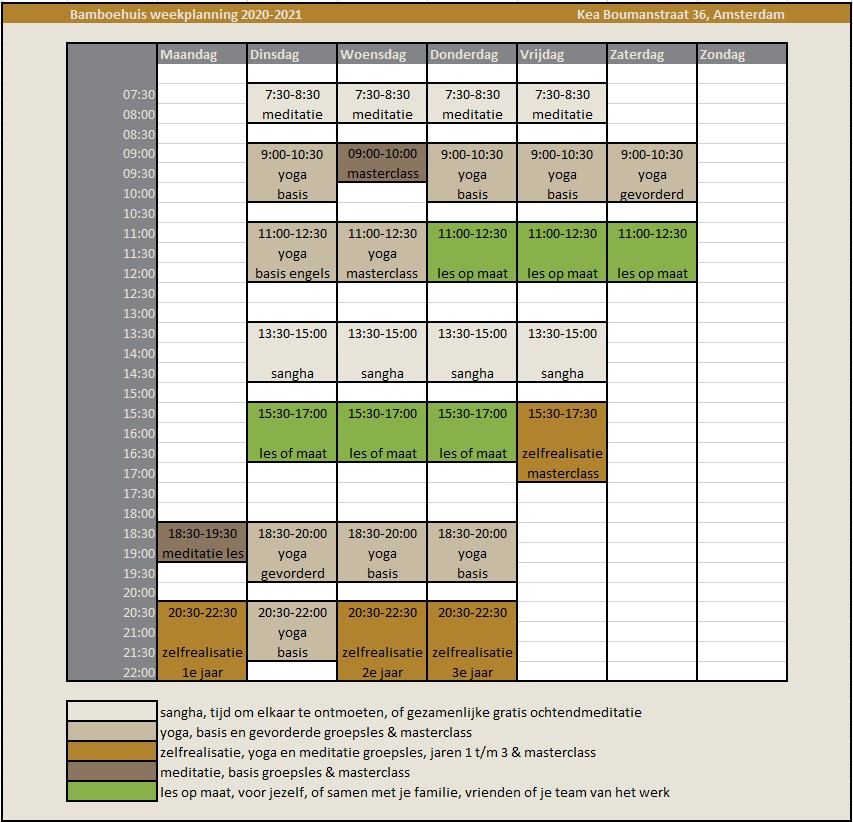
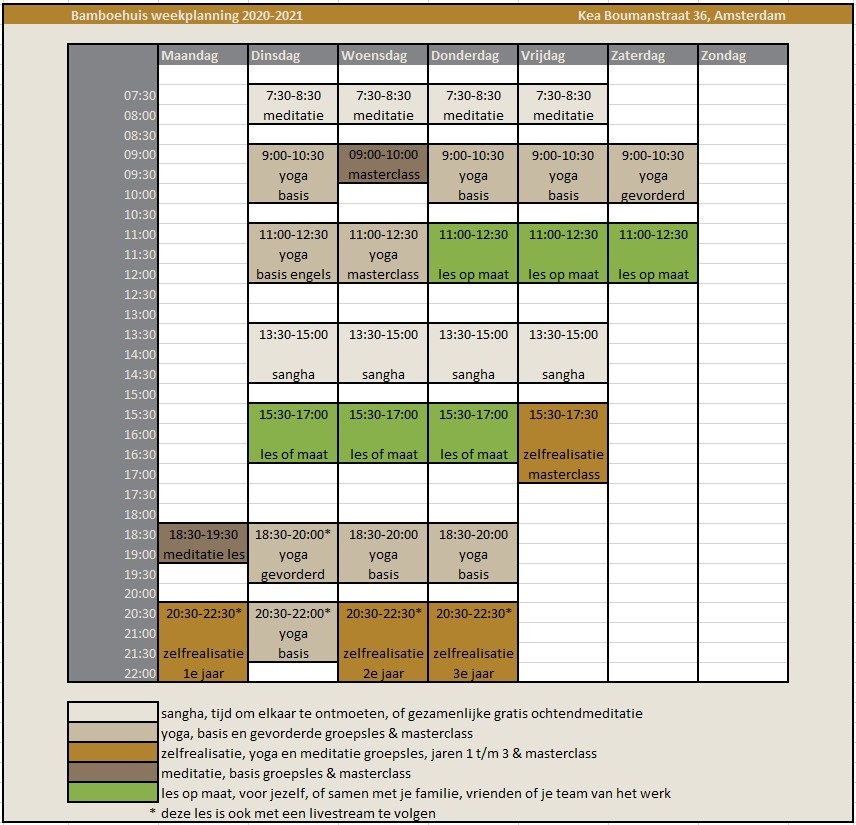
nieuwe agenda

diff --git a/index.html b/index.html
@@ -116,7 +116,7 @@
                 <div class="col-sm-8 col-sm-offset-2">
                  <h2 class="section-title text-center">OPENINGSTIJDEN</h2>
 <p class="text-center">
-<b>Update 18 november</b>: Vanaf donderdag 19 november zijn er weer groepslessen in het Bamboehuis met een maximale groepsgrootte van 6 yogi's. Kom weer in de flow van je yogabeoefening! Je kunt je les reserveren in momoyoga. Wil je graag een les online volgen mail ons dan voor een link.
+<b>Update 30 november</b>: Er zijn weer groepslessen in het Bamboehuis met een maximale groepsgrootte van 6 yogi's. Kom weer in de flow van je yogabeoefening! Je kunt nu ook thuis via een livestream lessen volgen. Ook die lessen reserveer je in momoyoga.
 <br/><br/>
 <!--
 In het Bamboehuis is mechanische ventilatie waarmee de lucht in de yogaruimte regelmatig ververst wordt.
@@ -170,58 +170,6 @@ Bekijk het overzicht, er zit vast iets voor je bij, je kunt direct en eenvoudig 
 </div>
 <br/>
 -->
-
-<div style="background:rgb(232,227,217);color:black;border-radius:7px">
-<div style="float:left;padding:5px;width:165px">
-<img class="bottom-marged" src="img/gallery/herfst-small.jpg" style="width:150px">
-<br/><b>16 - 22 november</b>
-<br/><span style="font-size:0.8em"></span>
-</div>
-<div style="float:right;padding:5px">
-	<span style="font-size:1.2em">Lesweek 10</span>
-</div>
-<div style="float:left;padding:5px">
-<table style="cell-padding-left:10px">
-<tr><td colspan="2"><a href="yogalessen.html">Yoga</a></td></tr>
-<tr style="font-size:0.8em"><td>Basis</td><td style="padding-left:10px">overgave</td></tr>
-<tr style="font-size:0.8em"><td>Gevorderd</td><td style="padding-left:10px">ken jezelf</td></tr>
-<tr><td colspan="2"><a href="meditatielessen.html">Meditatie</a></td></tr>
-<tr style="font-size:0.8em"><td>Meditatie</td><td style="padding-left:10px">bewustzijnstoestanden</td></tr>
-<tr><td colspan="2"><a href="zelfrealisatielessen.html">Zelfrealisatie</a></td></tr>
-<tr style="font-size:0.8em"><td>1e jaar</td><td style="padding-left:10px">raja yoga</td></tr>
-<tr style="font-size:0.8em"><td>2e jaar</td><td style="padding-left:10px">ken jezelf als de ene</td></tr>
-<tr style="font-size:0.8em"><td>3e jaar</td><td style="padding-left:10px">aandacht</td></tr>
-</table>
-</div>
-<br clear="left">
-</div>
-<br/>
-
-<div style="background:rgb(232,227,217);color:black;border-radius:7px">
-<div style="float:left;padding:5px;width:165px">
-<img class="bottom-marged" src="img/gallery/herfst-small.jpg" style="width:150px">
-<br/><b>23 - 29 november</b>
-<br/><span style="font-size:0.8em"></span>
-</div>
-<div style="float:right;padding:5px">
-	<span style="font-size:1.2em">Lesweek 11</span>
-</div>
-<div style="float:left;padding:5px">
-<table style="cell-padding-left:10px">
-<tr><td colspan="2"><a href="yogalessen.html">Yoga</a></td></tr>
-<tr style="font-size:0.8em"><td>Basis</td><td style="padding-left:10px">zien zoals het is</td></tr>
-<tr style="font-size:0.8em"><td>Gevorderd</td><td style="padding-left:10px">pratyahara</td></tr>
-<tr><td colspan="2"><a href="meditatielessen.html">Meditatie</a></td></tr>
-<tr style="font-size:0.8em"><td>Meditatie</td><td style="padding-left:10px">zelfstudie les</td></tr>
-<tr><td colspan="2"><a href="zelfrealisatielessen.html">Zelfrealisatie</a></td></tr>
-<tr style="font-size:0.8em"><td>1e jaar</td><td style="padding-left:10px">zelfstudie les</td></tr>
-<tr style="font-size:0.8em"><td>2e jaar</td><td style="padding-left:10px">zelfstudie les</td></tr>
-<tr style="font-size:0.8em"><td>3e jaar</td><td style="padding-left:10px">zelfstudie les</td></tr>
-</table>
-</div>
-<br clear="left">
-</div>
-<br/>
 
 <div style="background:rgb(232,227,217);color:black;border-radius:7px">
 <div style="float:left;padding:5px;width:165px">
@@ -347,6 +295,23 @@ Maximaal 6 deelnemers
 <table>
 <tr><td colspan="2"><a href="zelfstudie.html">Zelfstudie</a></td></tr>
 </table>
+</div>
+<br clear="left">
+</div>
+<br/>
+
+<div style="background:rgb(232,227,217);color:black;border-radius:7px">
+<div style="float:left;padding:5px;width:165px">
+<img class="bottom-marged" src="img/workshops/retraite.jpg" style="width:150px">
+<br/><b>zaterdag 2 januari</b>
+<br/><span style="font-size:0.8em">van 8:30 tot 17:00 uur</span>
+</div>
+<div style="float:left;padding:5px">
+<span style="font-size:1.2em"><a href="workshops.html#retraite">Retraite: tijd voor jezelf</a></span>
+</div>
+<div style="float:left;padding:5px">
+Maximaal 6 deelnemers
+<br/><span style="font-size:0.8em">inclusief lunch</span>
 </div>
 <br clear="left">
 </div>
